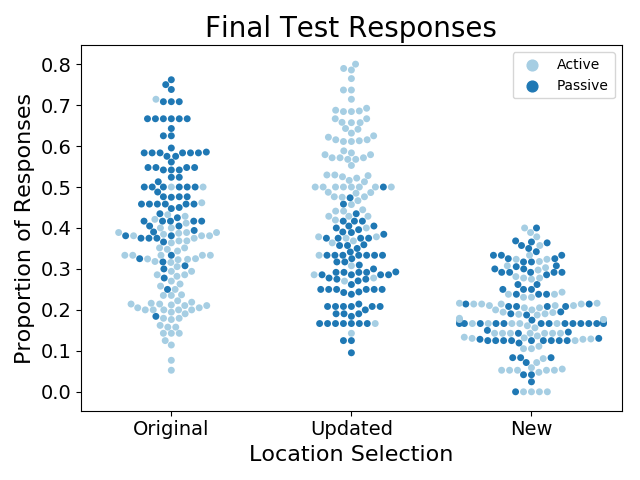
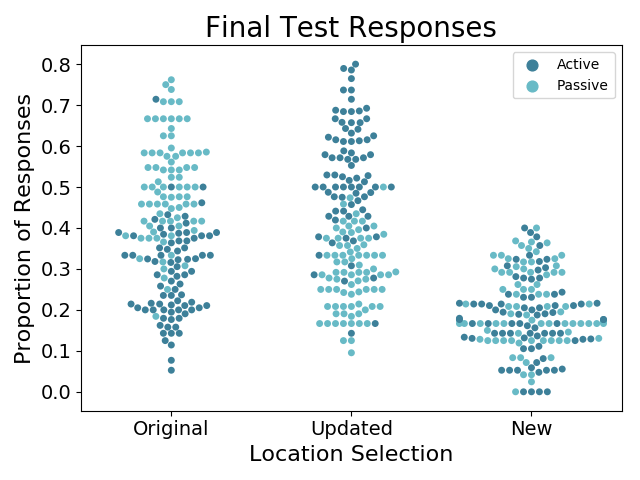
updated cxtupdate figs

diff --git a/cxtupdate/cxt_figs.py b/cxtupdate/cxt_figs.py
@@ -11,7 +11,7 @@ rcParams.update({'figure.autolayout': True})
 def get_cxt_figs(props_tidy):
     props_tidy['cond']=props_tidy['cond'].map({'act':'Active', 'pas':'Passive'})
     swarmfig=sns.swarmplot(x='locs', y='prop', hue='cond',
-                   data=props_tidy, palette='Paired')
+                   data=props_tidy, palette='GnBu_d')
     plt.xticks((0,1,2),['Original', 'Updated', 'New'])
     swarmfig.set_ylabel('Proportion of Responses', fontsize=16)
     swarmfig.set_xlabel('Location Selection', fontsize=16)
